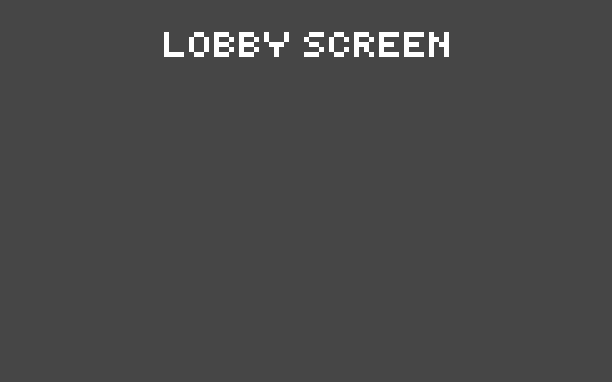
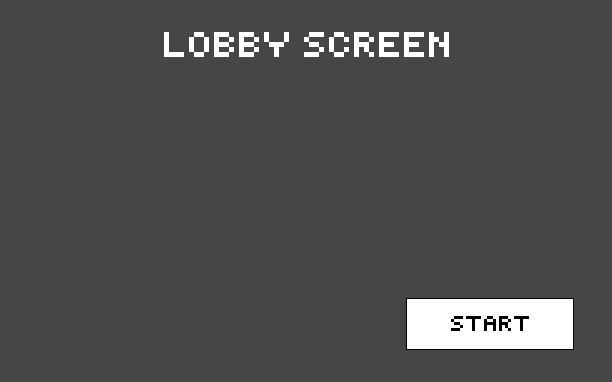
New: - lobby screens for different start button changes - gameType.h file changed for clicking a game type - soloLobby.h.h added logic for lobby screen change - soloGame.h file created for initial game for proper creation

Changed region(s): [[0.652, 0.7775, 0.9624, 0.9215]]

diff --git a/src/gameStates/soloLobby.h b/src/gameStates/soloLobby.h
@@ -10,12 +10,12 @@
 #include "../coreMechanics/settings.h"
 #include "gameState.h"
 #include "gameStateManager.h"
+#include "soloGame.h"
 
 
 class SoloLobby : public GameState {
 private:
     GameStateManager* gsm;
-    Texture2D backgroundSheet = {};
     int bgNumFrames = 0;
     int currentFrame = 0;
     float frameTime = 0;
@@ -29,35 +29,56 @@ private:
     Rectangle dest = {};
 
     BoundingBox mouse = {};
+    BoundingBox start = {};
 public:
     SoloLobby(GameStateManager* gsm) : gsm(gsm) {}
     void init() override {
 
-        backgroundSheet = LoadTexture("../images/defaultLobby.png");
-        startWidth = backgroundSheet.width;
-        startHeight = backgroundSheet.height;
+        lobbySheet = LoadTexture("../images/defaultLobby.png");
+        startWidth = lobbySheet.width;
+        startHeight = lobbySheet.height;
 
         source = {startWidth, 0, startWidth, startHeight};
         dest = {0, 0, static_cast<float>(SCREEN_WIDTH), static_cast<float>(SCREEN_HEIGHT)};
+        start = {{1277, 861, 0}, {1801, 1008, 0}};
     }
 
     void update(float dt) override {
         // update game logic
+        mouse = {{static_cast<float>(GetMouseX()), static_cast<float>(GetMouseY()), 0},
+            {static_cast<float>(GetMouseX() + 2.0), static_cast<float>(GetMouseY() + 2.0), 0}};
+    }
+
+    void checkCollisions() {
+        if (CheckCollisionBoxes(mouse, start)) {
+            lobbySheet = LoadTexture("../images/lobbyStartHover.png");
+        } else {
+            lobbySheet = LoadTexture("../images/defaultLobby.png");
+        }
     }
 
     void render() override {
         // render the screen
         // FIX ME
-        // DrawTexture(backgroundSheet, source, dest, WHITE);
+        // DrawTexture(lobbySheet, source, dest, WHITE);
 
-        DrawTexturePro(backgroundSheet, source, dest, {0,0}, 0.0f, WHITE);
+        DrawTexturePro(lobbySheet, source, dest, {0,0}, 0.0f, WHITE);
         // Used to check mouse location for collisions
-        // DrawBoundingBox(mouse, RED);
+        DrawBoundingBox(mouse, RED);
+        DrawBoundingBox(start, GREEN);
+
+        checkCollisions();
 
     }
 
     void handleInput() override {
         // handle inputs
+        if (IsMouseButtonDown(MOUSE_LEFT_BUTTON)) {
+            if (CheckCollisionBoxes(mouse, start)) {
+                lobbySheet = LoadTexture("../images/lobbyStartClick.png");
+                gsm->changeState(new SoloGame(gsm));
+            }
+        }
     }
 
     ~SoloLobby() override {

diff --git a/src/gameStates/gameType.h b/src/gameStates/gameType.h
@@ -69,14 +69,13 @@ public:
     }
 
     void checkCollisions() {
-         if (CheckCollisionBoxes(mouse, solo)) {
+        if (CheckCollisionBoxes(mouse, solo)) {
             startScreenSheet = LoadTexture("../images/soloHover.png");
         } else if (CheckCollisionBoxes(mouse, multi)) {
             startScreenSheet = LoadTexture("../images/multiHover.png");
         } else {
             startScreenSheet = LoadTexture("../images/gameType.png");
         }
-
     }
 
     void render() override {
@@ -96,7 +95,7 @@ public:
     }
 
     void handleInput() override {
-        if (IsMouseButtonPressed(MOUSE_LEFT_BUTTON)) {
+        if (IsMouseButtonDown(MOUSE_LEFT_BUTTON)) {
             if (CheckCollisionBoxes(mouse, solo)) {
                 startScreenSheet = LoadTexture("../images/soloClick.png");
                 gsm->changeState(new SoloLobby(gsm));

diff --git a/src/gameStates/soloGame.h b/src/gameStates/soloGame.h
@@ -1,0 +1,43 @@
+//
+// Created by vanget on 10/17/2025.
+//
+
+#ifndef GAME_C_SOLOGAME_H
+#define GAME_C_SOLOGAME_H
+
+
+#include <raylib.h>
+
+#include "gameState.h"
+#include "gameStateManager.h"
+
+class SoloGame : public GameState {
+private:
+    GameStateManager* gsm;
+    // add variables
+public:
+    SoloGame(GameStateManager* gsm) : gsm(gsm) {}
+    void init() override {
+        // initialize menu resources
+    }
+
+    void update(float dt) override {
+        // update game logic
+    }
+
+    void render() override {
+        // render the screen
+    }
+
+    void handleInput() override {
+        // handle inputs
+    }
+
+    ~SoloGame() override {
+
+    }
+};
+
+
+
+#endif //GAME_C_SOLOGAME_H
